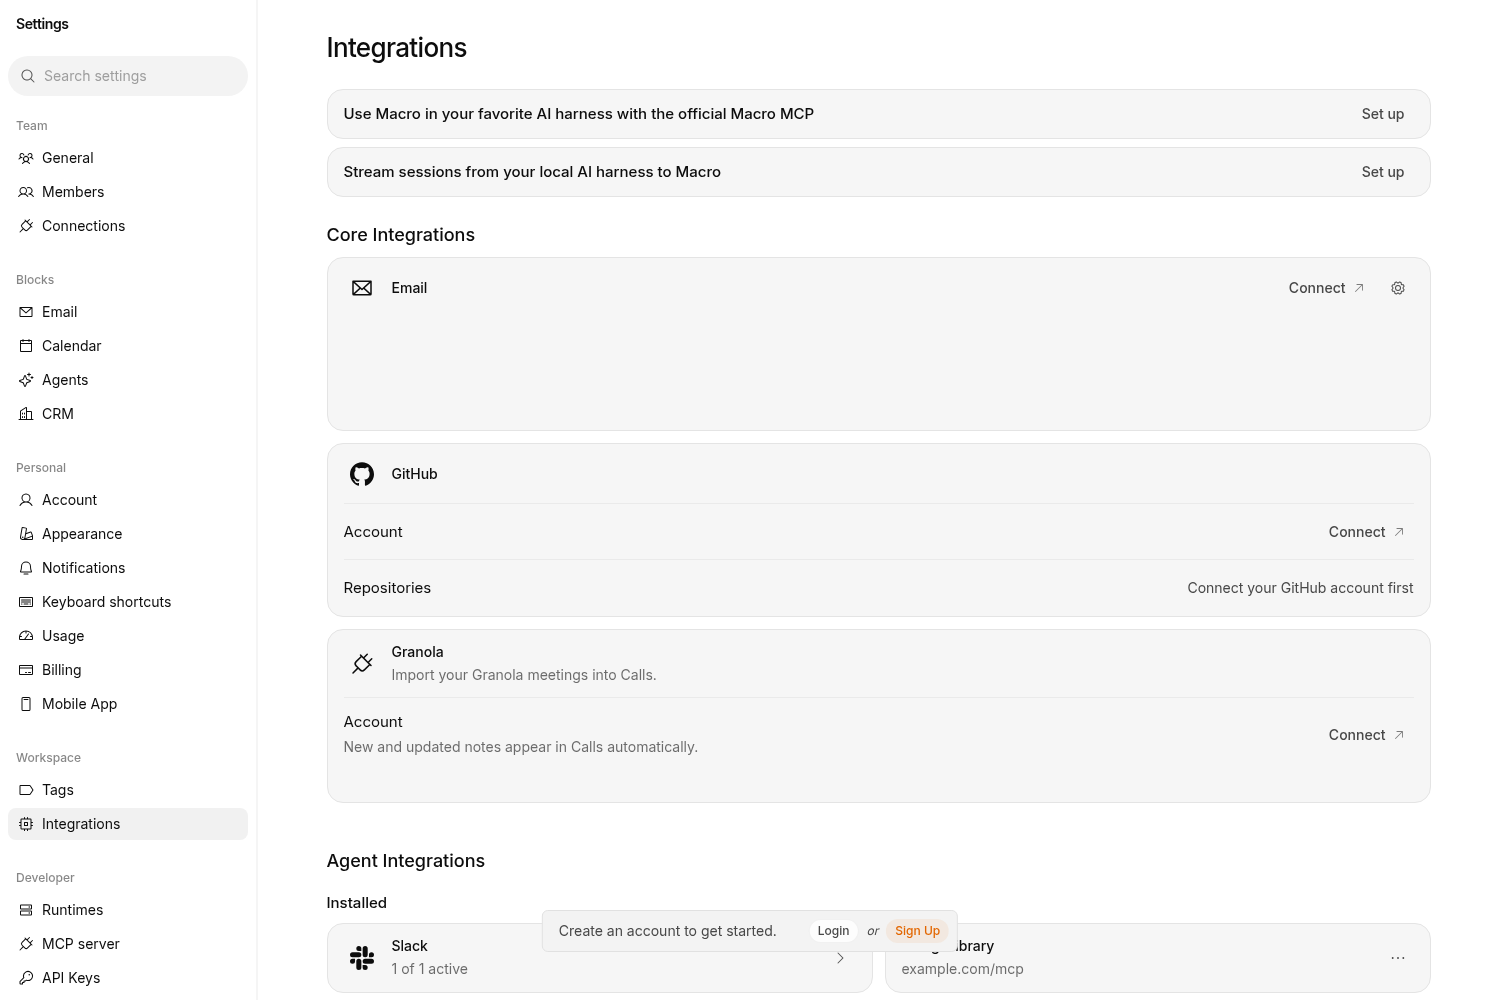
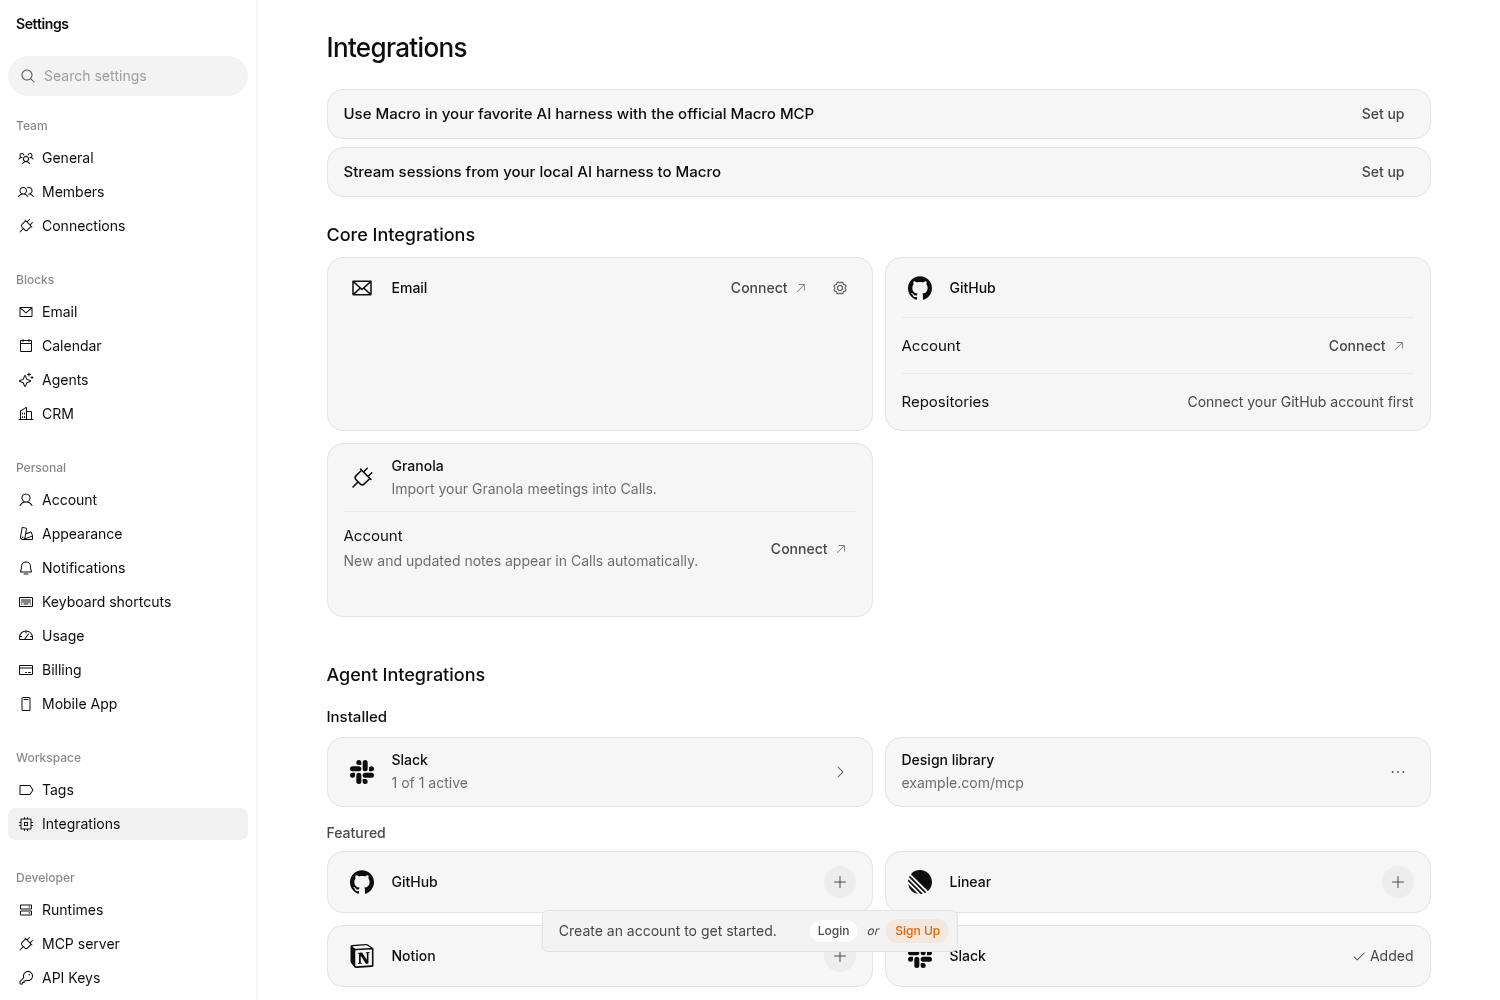
refactor(settings): restore two-column core integrations
Why
The two-column layout is preferred after comparing the full-width view.

What
Restore two columns on wide screens while retaining equal-height cards
and a single column on narrow screens. Refresh the visual guide.

diff --git a/apps/web/src/features/settings/IntegrationsPage.tsx b/apps/web/src/features/settings/IntegrationsPage.tsx
@@ -56,7 +56,7 @@ function AccountConnections() {
       class="pb-5 outline-none"
     >
       <h2 class="mb-2 text-lg font-medium text-ink">Core Integrations</h2>
-      <div class="grid grid-cols-1 items-stretch gap-3 @[760px]/settings-page:auto-rows-fr">
+      <div class="grid grid-cols-1 items-stretch gap-3 @[760px]/settings-page:auto-rows-fr @[760px]/settings-page:grid-cols-2">
         <Show when={ENABLE_EMAIL}>
           <Suspense>
             <EmailCard

diff --git a/docs/agent-guide/settings.md b/docs/agent-guide/settings.md
@@ -490,7 +490,7 @@ from your local AI harness to Macro” opens Runtimes within Integrations to con
 a local machine. Its Back button returns to Integrations; opening Runtimes from
 Agents keeps the return to Agents.
 Email, GitHub, and Granola cards appear next under Core Integrations;
-they stack in one full-width column and share a height on wide screens. A small gear on the Email card opens Email settings;
+they use two columns and share a height on wide screens, stacking on narrow screens. A small gear on the Email card opens Email settings;
 Calendar settings remain available from the settings sidebar.
 All apps groups each app under its first nonempty Pipedream category; apps without
 category metadata appear under More apps. Categories lead with Productivity,
